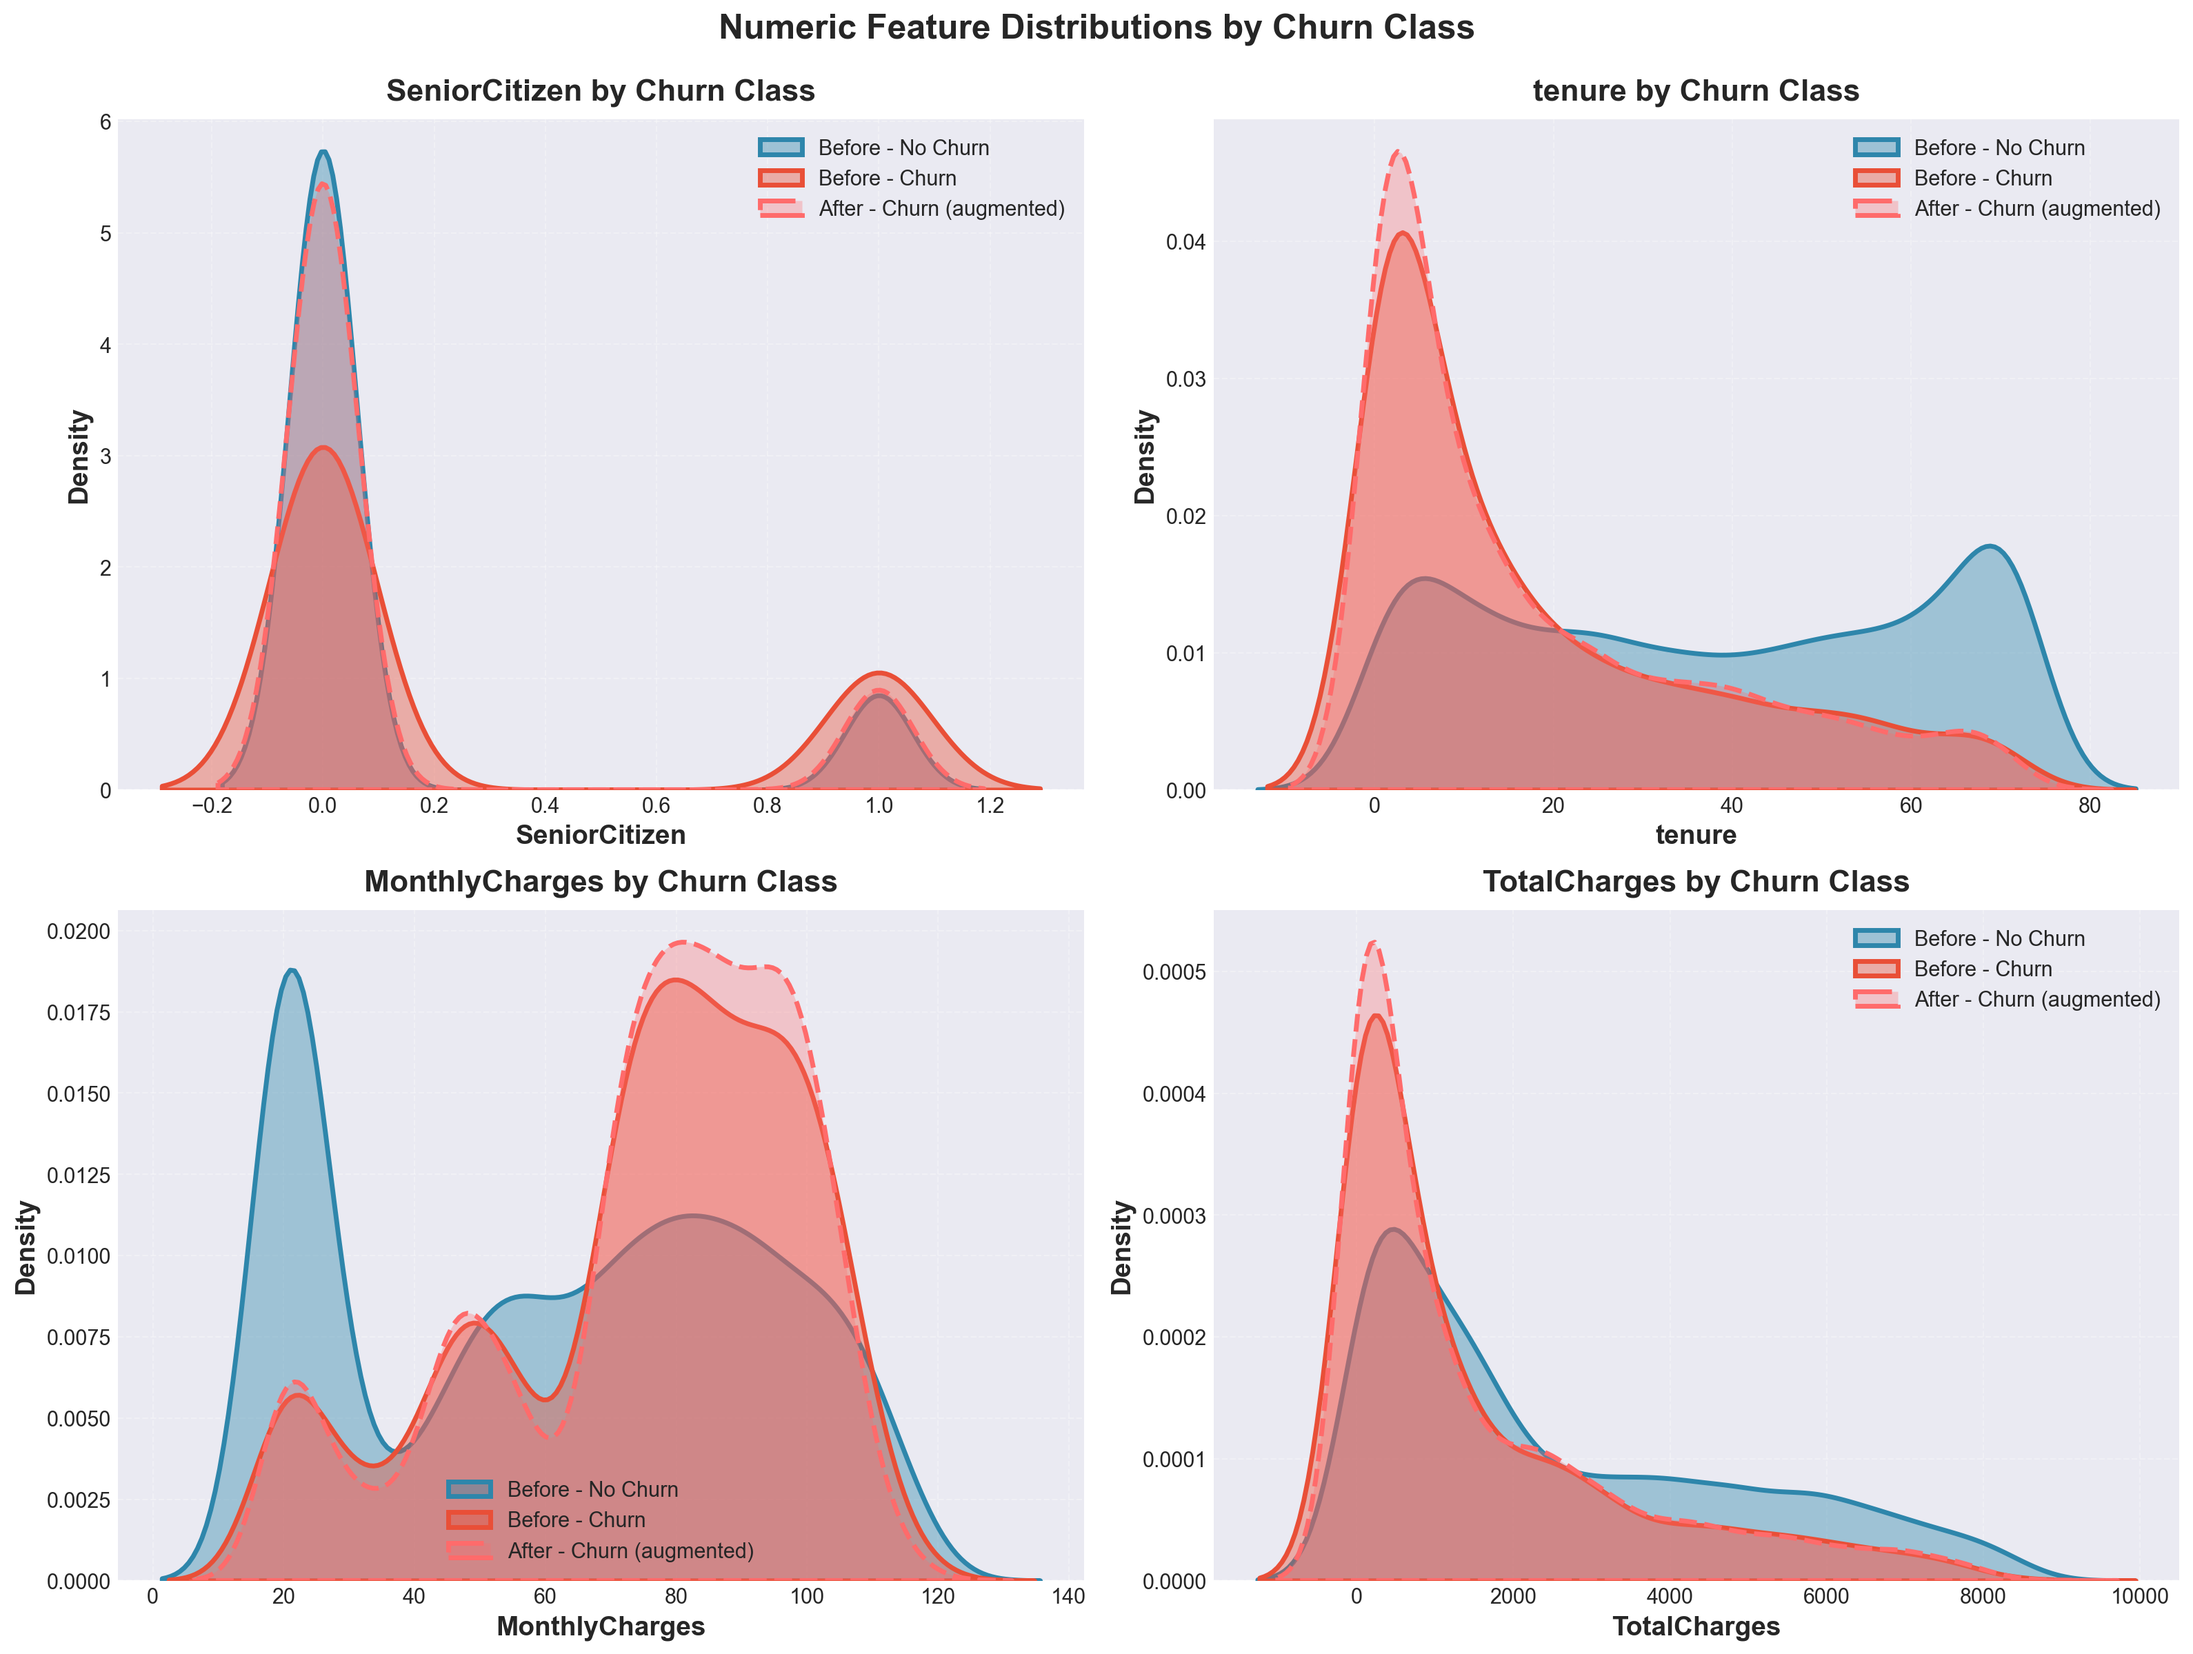
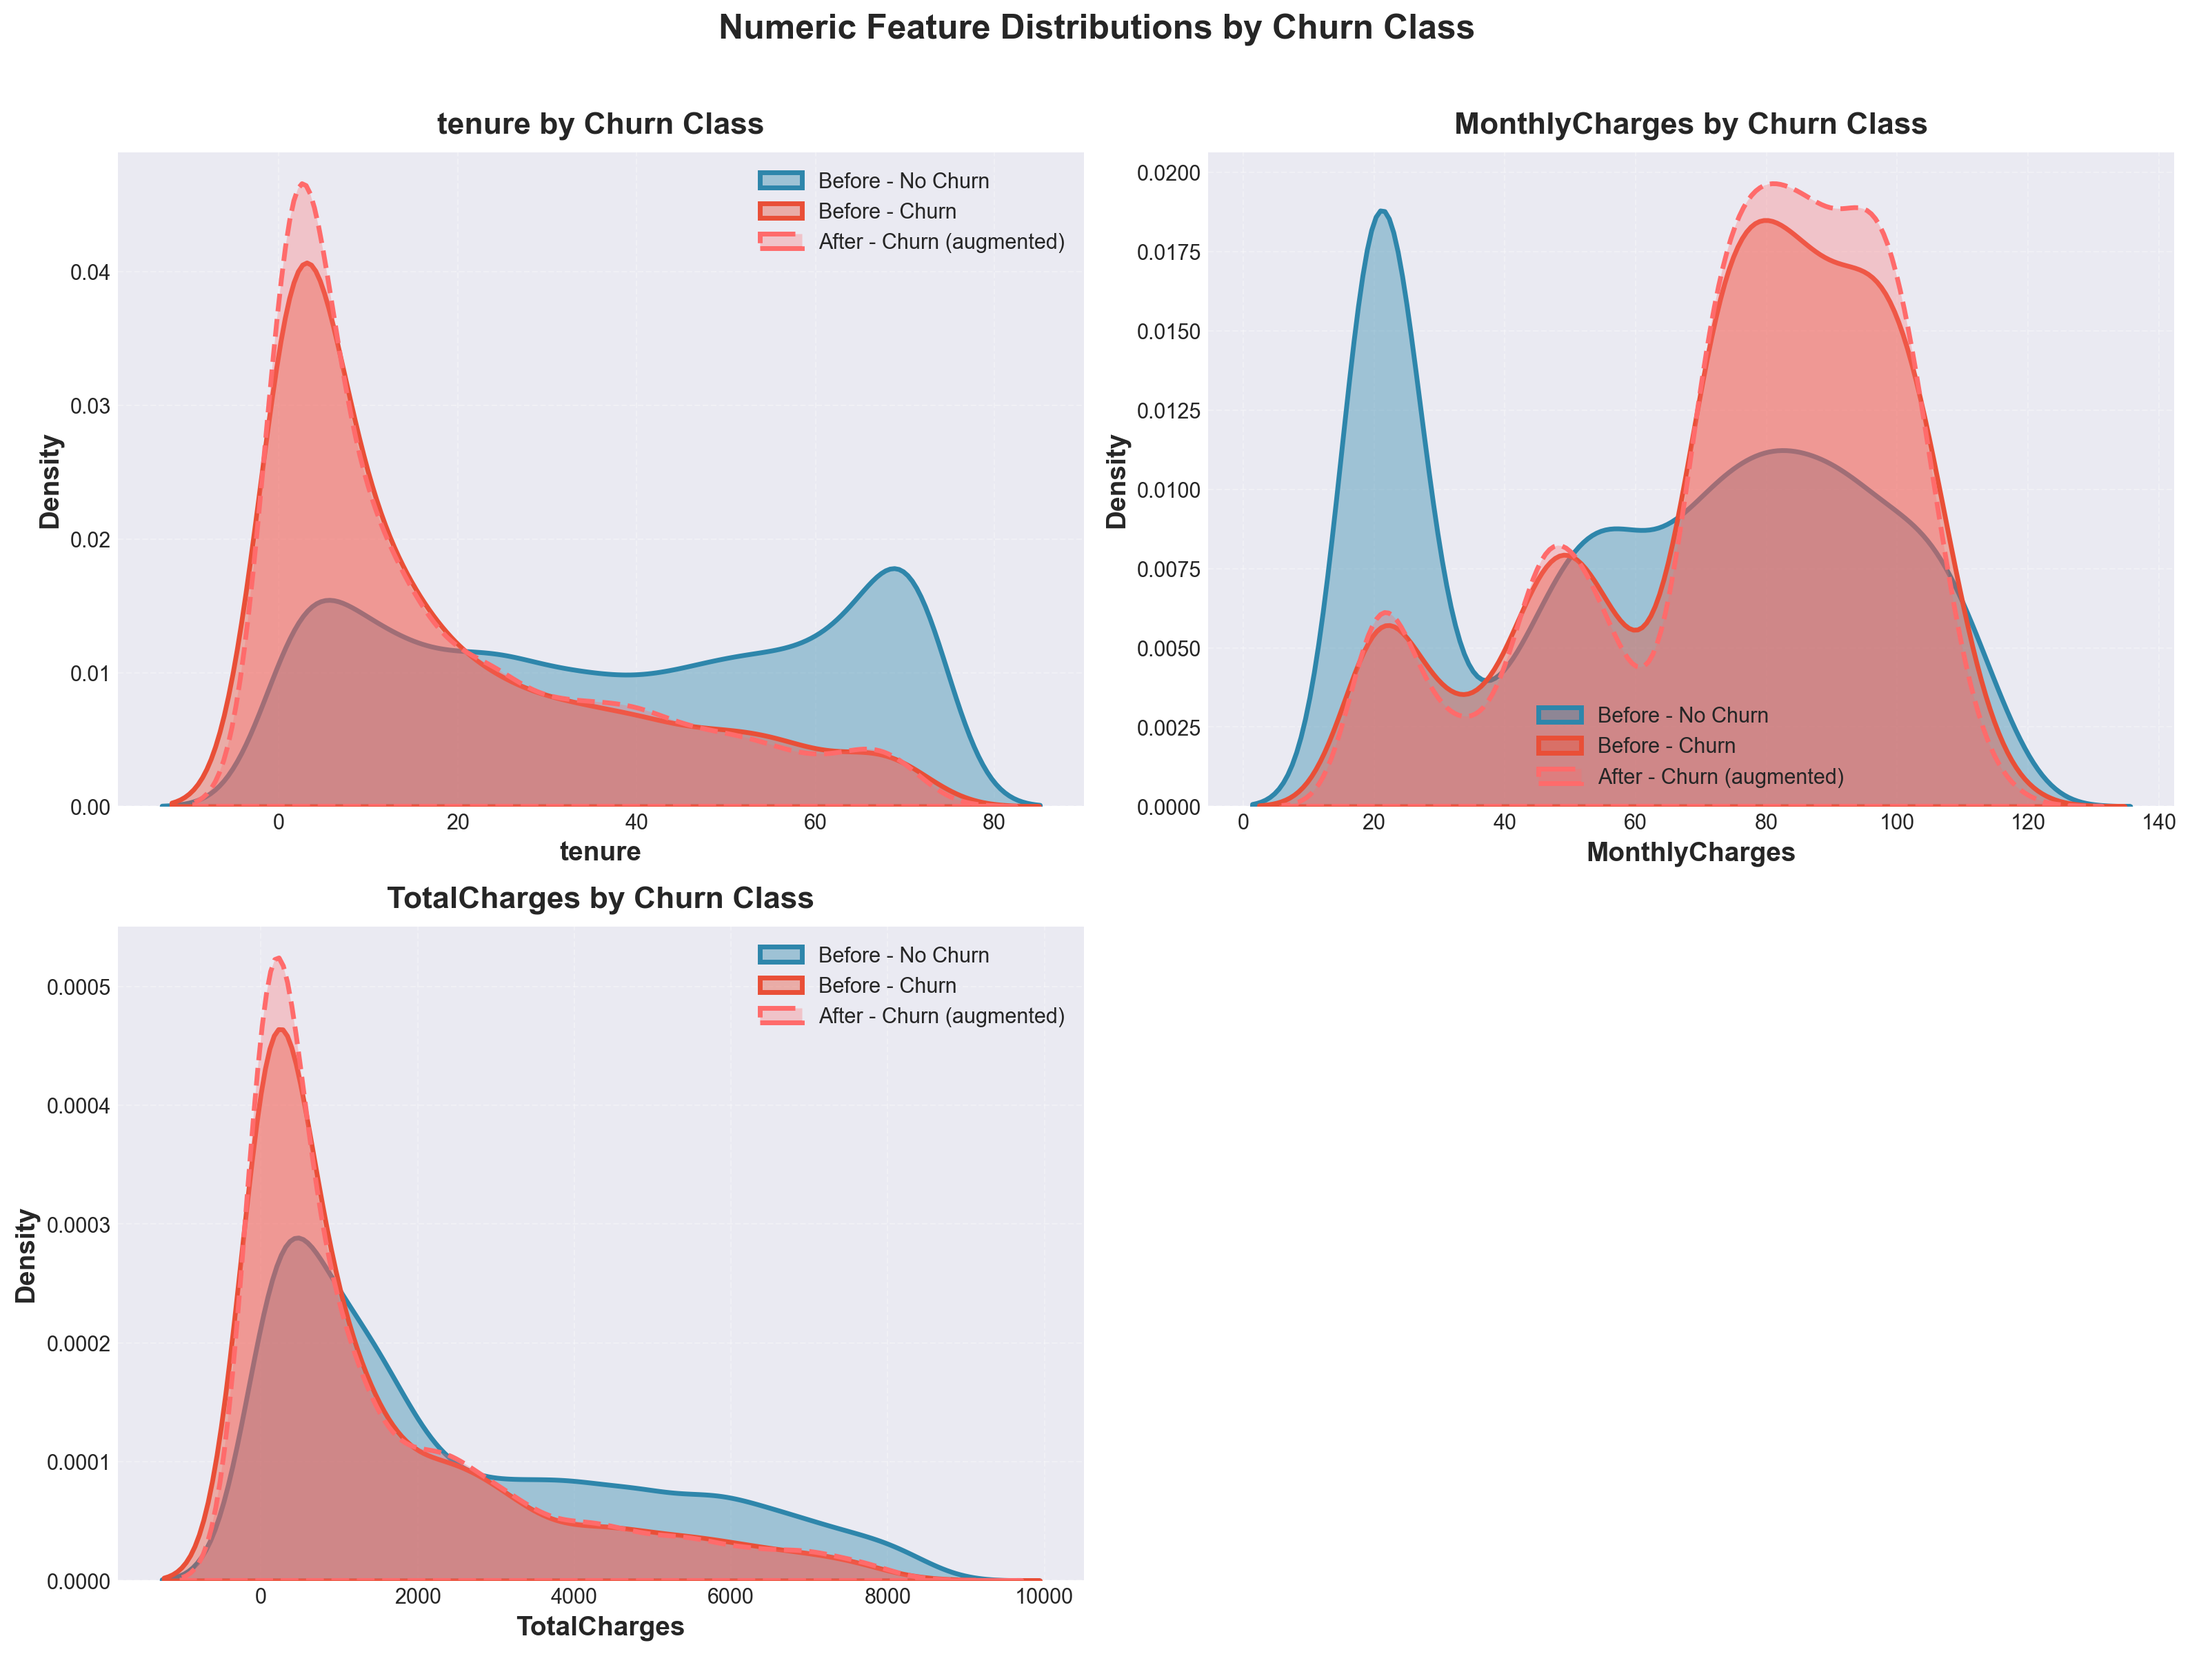
improving post augumentation analysis

diff --git a/src/post_augmentation_analysis.py b/src/post_augmentation_analysis.py
@@ -95,11 +95,18 @@ def compare_numeric_distributions(df_original, df_augmented, numeric_features, o
     """
     n_features = len(numeric_features)
     
-    # Create separate figure for each feature for better readability
-    fig, axes = plt.subplots(2, 2, figsize=(16, 12))
+    # Create grid based on number of features
+    n_cols = 2
+    n_rows = (n_features + n_cols - 1) // n_cols
+    
+    fig, axes = plt.subplots(n_rows, n_cols, figsize=(16, 6 * n_rows))
     fig.suptitle('Numeric Feature Distributions: Before vs After Augmentation',
                  fontsize=18, fontweight='bold', y=0.995)
     
+    if n_rows == 1 and n_cols > 1:
+        axes = axes.reshape(1, -1)
+    if not isinstance(axes, np.ndarray):
+        axes = np.array([axes])
     axes = axes.flatten()
     
     statistics_comparison = []
@@ -165,7 +172,11 @@ def compare_numeric_distributions(df_original, df_augmented, numeric_features, o
                 'Significant_Diff': False
             })
     
-    plt.tight_layout()
+    # Hide unused subplots
+    for idx in range(n_features, len(axes)):
+        axes[idx].axis('off')
+    
+    plt.tight_layout(rect=[0, 0, 1, 0.98])
     
     output_path = os.path.join(output_dir, 'numeric_distributions_comparison.png')
     plt.savefig(output_path, dpi=200, bbox_inches='tight', facecolor='white')
@@ -246,7 +257,7 @@ def compare_categorical_distributions(df_original, df_augmented, categorical_fea
     for idx in range(n_features, len(axes)):
         axes[idx].axis('off')
     
-    plt.tight_layout()
+    plt.tight_layout(rect=[0, 0, 1, 0.98])
     
     output_path = os.path.join(output_dir, 'categorical_distributions_comparison.png')
     plt.savefig(output_path, dpi=150, bbox_inches='tight', facecolor='white')
@@ -258,15 +269,15 @@ def compare_categorical_distributions(df_original, df_augmented, categorical_fea
 
 def check_for_anomalies(df_original, df_augmented, numeric_features):
     """
-    Sprawdza, czy w zaugmentowanych danych nie ma anomalii (wartości niemożliwych).
+    Checks if augmented data contains anomalies (impossible values).
     
     Args:
-        df_original: DataFrame z oryginalnymi danymi
-        df_augmented: DataFrame z zaugmentowanymi danymi
-        numeric_features: Lista cech numerycznych
+        df_original: DataFrame with original data
+        df_augmented: DataFrame with augmented data
+        numeric_features: List of numeric features
         
     Returns:
-        anomalies: DataFrame z wykrytymi anomaliami
+        anomalies: DataFrame with detected anomalies
     """
     anomalies = []
     
@@ -277,11 +288,11 @@ def check_for_anomalies(df_original, df_augmented, numeric_features):
         aug_min = df_augmented[feature].min()
         aug_max = df_augmented[feature].max()
         
-        # Sprawdzenie wartości poza zakresem oryginalnym
+        # Check for values outside original range
         out_of_range_min = aug_min < orig_min
         out_of_range_max = aug_max > orig_max
         
-        # Sprawdzenie wartości ujemnych dla cech, które nie powinny być ujemne
+        # Check for negative values for features that shouldn't be negative
         negative_values = (df_augmented[feature] < 0).sum() if aug_min < 0 else 0
         
         if out_of_range_min or out_of_range_max or negative_values > 0:
@@ -310,11 +321,18 @@ def compare_class_conditional_distributions(df_original, df_augmented, numeric_f
     """
     n_features = len(numeric_features)
     
-    # Create separate figure for each feature for better readability
-    fig, axes = plt.subplots(2, 2, figsize=(16, 12))
+    # Create grid based on number of features
+    n_cols = 2
+    n_rows = (n_features + n_cols - 1) // n_cols
+    
+    fig, axes = plt.subplots(n_rows, n_cols, figsize=(16, 6 * n_rows))
     fig.suptitle('Numeric Feature Distributions by Churn Class',
                  fontsize=18, fontweight='bold', y=0.995)
     
+    if n_rows == 1 and n_cols > 1:
+        axes = axes.reshape(1, -1)
+    if not isinstance(axes, np.ndarray):
+        axes = np.array([axes])
     axes = axes.flatten()
     
     for idx, feature in enumerate(numeric_features):
@@ -340,7 +358,11 @@ def compare_class_conditional_distributions(df_original, df_augmented, numeric_f
         ax.grid(True, alpha=0.3, linestyle='--')
         ax.tick_params(labelsize=11)
     
-    plt.tight_layout()
+    # Hide unused subplots
+    for idx in range(n_features, len(axes)):
+        axes[idx].axis('off')
+    
+    plt.tight_layout(rect=[0, 0, 1, 0.98])
     
     output_path = os.path.join(output_dir, 'class_conditional_distributions.png')
     plt.savefig(output_path, dpi=200, bbox_inches='tight', facecolor='white')
@@ -441,51 +463,69 @@ def generate_summary_report(df_original, df_augmented, numeric_stats, categorica
 
 def run_post_augmentation_analysis(original_path: str, augmented_path: str, output_dir: str):
     """
-    Uruchamia pełną analizę zbioru po zbalansowaniu.
+    Runs full post-augmentation analysis.
     
     Args:
-        original_path: Ścieżka do oryginalnego pliku CSV
-        augmented_path: Ścieżka do zaugmentowanego pliku CSV
-        output_dir: Katalog do zapisu wyników
+        original_path: Path to original CSV file
+        augmented_path: Path to augmented CSV file
+        output_dir: Directory to save results
     """
     os.makedirs(output_dir, exist_ok=True)
     
-    # 1. Wczytanie danych
+    # Define features to analyze (matching preprocessing.py)
+    categorical_cols = [
+        "InternetService", "OnlineSecurity",
+        "DeviceProtection", "TechSupport",
+        "Contract", "PaymentMethod"
+    ]
+    numeric_cols = ["tenure", "MonthlyCharges", "TotalCharges"]
+    
+    # 1. Load data
     df_original, df_augmented = load_datasets(original_path, augmented_path)
     
-    # 2. Identify feature types
-    numeric_features, categorical_features = identify_feature_types(df_original)
-    print(f"\n[INFO] Feature identification:")
-    print(f"   • Numeric: {len(numeric_features)}")
-    print(f"   • Categorical: {len(categorical_features)}")
+    # 2. Filter features to only those specified
+    # Verify features exist in dataset
+    available_categorical = [col for col in categorical_cols if col in df_original.columns]
+    available_numeric = [col for col in numeric_cols if col in df_original.columns]
+    
+    print(f"\n[INFO] Feature selection:")
+    print(f"   • Numeric features: {len(available_numeric)} ({', '.join(available_numeric)})")
+    print(f"   • Categorical features: {len(available_categorical)} ({', '.join(available_categorical)})")
+    
+    if len(available_numeric) == 0:
+        print("[ERROR] No numeric features found!")
+        return
+    if len(available_categorical) == 0:
+        print("[ERROR] No categorical features found!")
+        return
     
     # 3. Compare numeric distributions
     print(f"\n[INFO] Analyzing numeric features...")
     numeric_stats = compare_numeric_distributions(
-        df_original, df_augmented, numeric_features, output_dir
+        df_original, df_augmented, available_numeric, output_dir
     )
     
     # 4. Compare categorical distributions
     print(f"\n[INFO] Analyzing categorical features...")
     categorical_stats = compare_categorical_distributions(
-        df_original, df_augmented, categorical_features, output_dir
+        df_original, df_augmented, available_categorical, output_dir
     )
     
     # 5. Class-conditional distributions
     print(f"\n[INFO] Analyzing class-conditional distributions...")
     compare_class_conditional_distributions(
-        df_original, df_augmented, numeric_features, output_dir
+        df_original, df_augmented, available_numeric, output_dir
     )
     
     # 6. Check for anomalies
     print(f"\n[INFO] Verifying anomalies...")
-    anomalies = check_for_anomalies(df_original, df_augmented, numeric_features)
+    anomalies = check_for_anomalies(df_original, df_augmented, available_numeric)
     if len(anomalies) > 0:
         print(f"   [WARNING] Found {len(anomalies)} potential anomalies")
     else:
         print(f"   [OK] No anomalies detected")
     
-    # 7. Generowanie raportu
+    # 7. Generate report
     generate_summary_report(df_original, df_augmented, numeric_stats, 
                            categorical_stats, anomalies)
     
